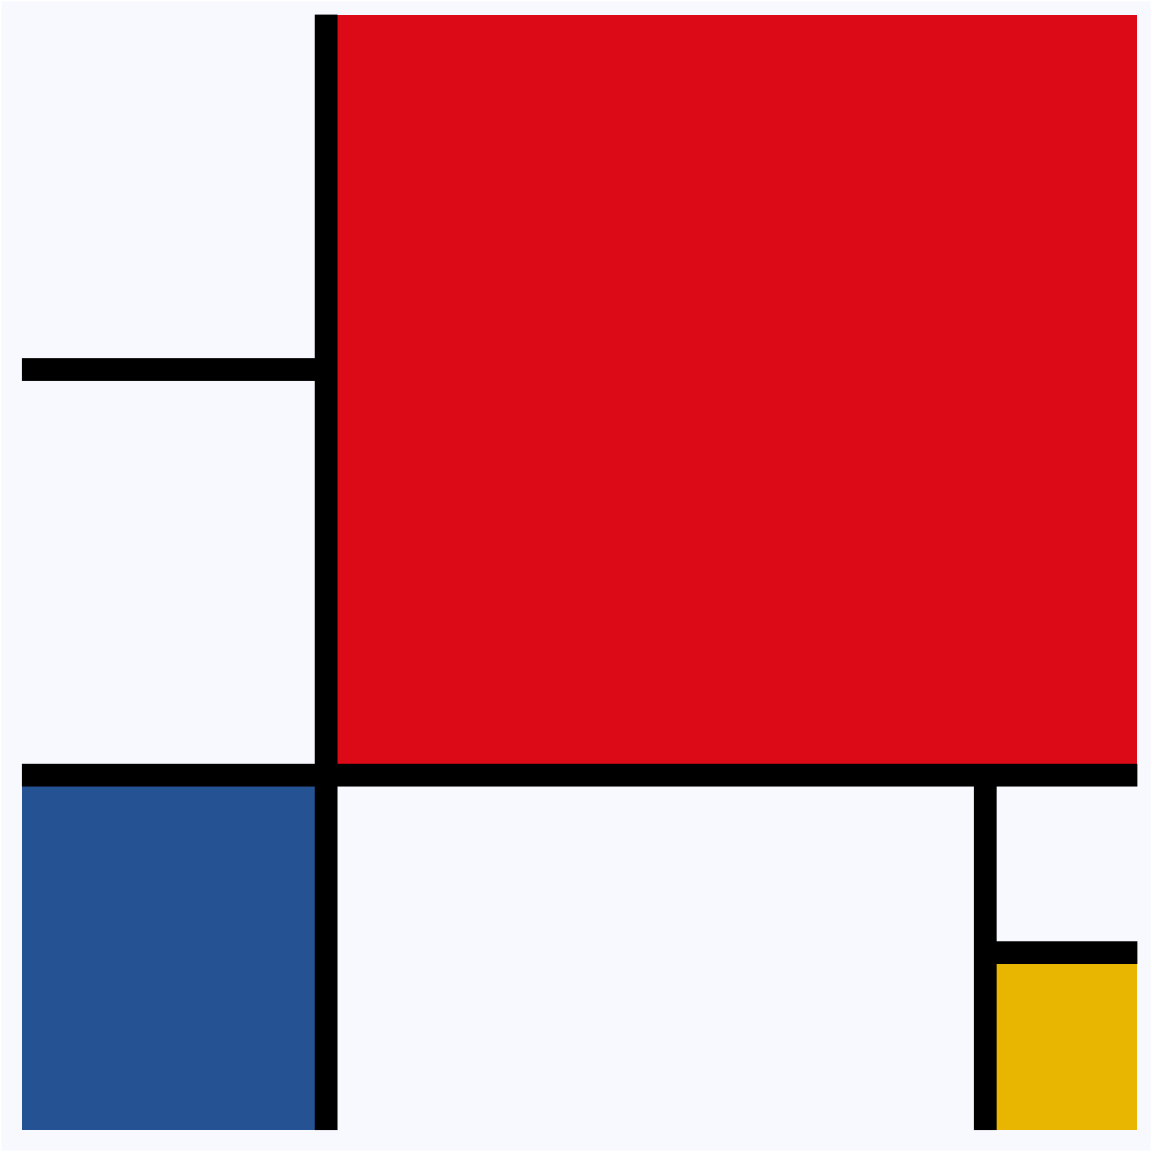
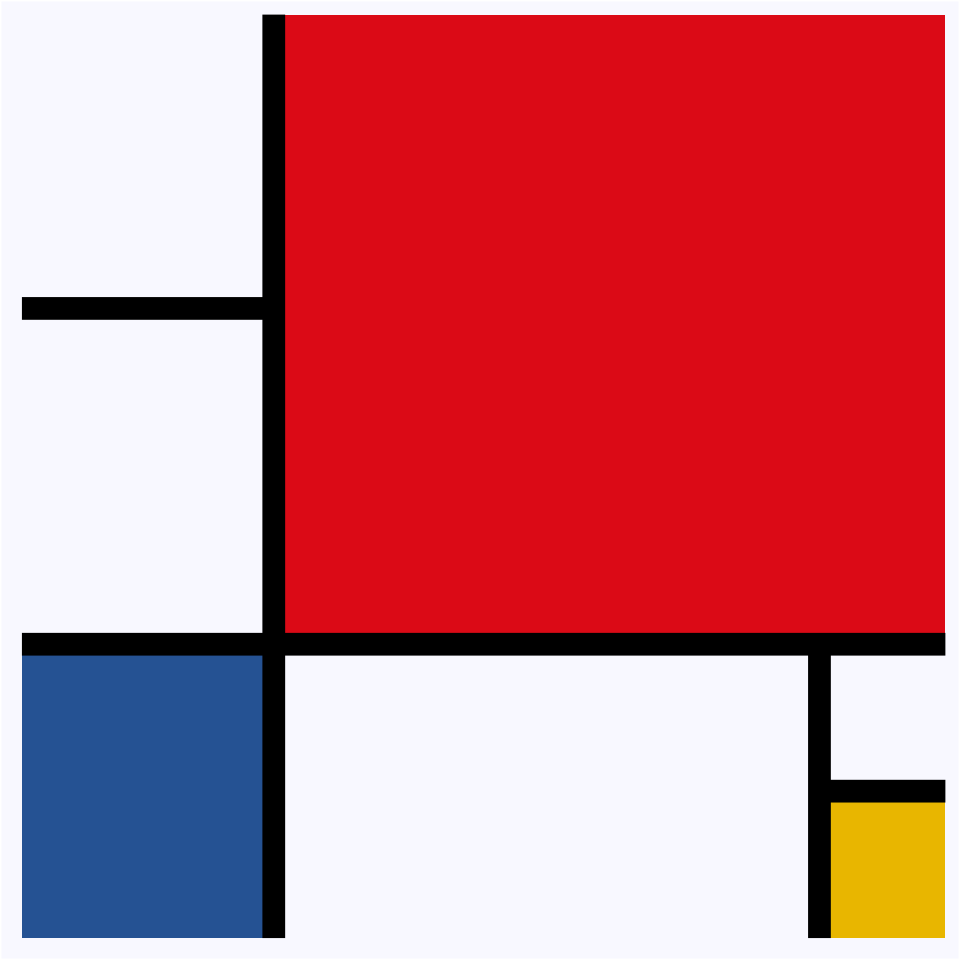
made the images look better on the home page

diff --git a/dashboard/dashboard.html b/dashboard/dashboard.html
@@ -70,8 +70,8 @@ ul.task-list li input[type="checkbox"] {
 
 <div class="bslib-grid-item html-fill-item tab-content bslib-grid" data-layout="fill" style="display: grid; grid-template-rows: minmax(3em, 1fr); grid-auto-columns: minmax(0, 1fr);">
 <div id="home" class="dashboard-page tab-pane show active html-fill-item html-fill-container" data-orientation="rows" aria-labelledby="tab-home">
-<div class="html-fill-item html-fill-container bslib-grid" style="display: grid; grid-template-rows: minmax(3em, 1fr) minmax(3em, 1fr) minmax(3em, 1fr); grid-auto-columns: minmax(0, 1fr);">
-<div class="html-fill-item html-fill-container bslib-grid" data-width="25%" style="display: grid; grid-template-columns: minmax(3em, 1fr);
+<div class="html-fill-item html-fill-container bslib-grid" style="display: grid; grid-template-rows: minmax(3em, 1fr); grid-auto-columns: minmax(0, 1fr);">
+<div class="html-fill-item html-fill-container bslib-grid" data-width="50%" style="display: grid; grid-template-columns: minmax(3em, 1fr) minmax(3em, 1fr) minmax(3em, 1fr);
 grid-auto-rows: minmax(0, 1fr);">
 <div class="card cell html-fill-item html-fill-container bslib-card" data-title="Composition with Red, Blue, and Yellow" data-bslib-card-init="" data-require-bs-caller="card()" data-full-screen="false">
 <div class="card-header"><div class="card-title">Composition with Red, Blue, and Yellow</div></div>
@@ -85,11 +85,7 @@ grid-auto-rows: minmax(0, 1fr);">
     <span class="bslib-full-screen-enter badge rounded-pill">
         <svg xmlns="http://www.w3.org/2000/svg" viewbox="0 0 24 24" style="height:1em;width:1em;" aria-hidden="true" role="img"><path d="M20 5C20 4.4 19.6 4 19 4H13C12.4 4 12 3.6 12 3C12 2.4 12.4 2 13 2H21C21.6 2 22 2.4 22 3V11C22 11.6 21.6 12 21 12C20.4 12 20 11.6 20 11V5ZM4 19C4 19.6 4.4 20 5 20H11C11.6 20 12 20.4 12 21C12 21.6 11.6 22 11 22H3C2.4 22 2 21.6 2 21V13C2 12.4 2.4 12 3 12C3.6 12 4 12.4 4 13V19Z"></path></svg>
     </span>
-</bslib-tooltip><script data-bslib-card-init="">bslib.Card.initializeAllCards();</script></div>
-</div>
-<div class="html-fill-item html-fill-container bslib-grid" data-width="25%" style="display: grid; grid-template-columns: minmax(3em, 1fr);
-grid-auto-rows: minmax(0, 1fr);">
-<div class="card cell html-fill-item html-fill-container bslib-card" data-title="Composition No.10" data-bslib-card-init="" data-require-bs-caller="card()" data-full-screen="false">
+</bslib-tooltip><script data-bslib-card-init="">bslib.Card.initializeAllCards();</script></div><div class="card cell html-fill-item html-fill-container bslib-card" data-title="Composition No.10" data-bslib-card-init="" data-require-bs-caller="card()" data-full-screen="false">
 <div class="card-header"><div class="card-title">Composition No.10</div></div>
 <div class="card-body html-fill-item html-fill-container">
 <div class="cell-output-display html-fill-item html-fill-container">
@@ -101,11 +97,7 @@ grid-auto-rows: minmax(0, 1fr);">
     <span class="bslib-full-screen-enter badge rounded-pill">
         <svg xmlns="http://www.w3.org/2000/svg" viewbox="0 0 24 24" style="height:1em;width:1em;" aria-hidden="true" role="img"><path d="M20 5C20 4.4 19.6 4 19 4H13C12.4 4 12 3.6 12 3C12 2.4 12.4 2 13 2H21C21.6 2 22 2.4 22 3V11C22 11.6 21.6 12 21 12C20.4 12 20 11.6 20 11V5ZM4 19C4 19.6 4.4 20 5 20H11C11.6 20 12 20.4 12 21C12 21.6 11.6 22 11 22H3C2.4 22 2 21.6 2 21V13C2 12.4 2.4 12 3 12C3.6 12 4 12.4 4 13V19Z"></path></svg>
     </span>
-</bslib-tooltip><script data-bslib-card-init="">bslib.Card.initializeAllCards();</script></div>
-</div>
-<div class="html-fill-item html-fill-container bslib-grid" data-width="25%" style="display: grid; grid-template-columns: minmax(3em, 1fr);
-grid-auto-rows: minmax(0, 1fr);">
-<div class="card cell html-fill-item html-fill-container bslib-card" data-title="Composition with Yellow, Blue, and Red" data-bslib-card-init="" data-require-bs-caller="card()" data-full-screen="false">
+</bslib-tooltip><script data-bslib-card-init="">bslib.Card.initializeAllCards();</script></div><div class="card cell html-fill-item html-fill-container bslib-card" data-title="Composition with Yellow, Blue, and Red" data-bslib-card-init="" data-require-bs-caller="card()" data-full-screen="false">
 <div class="card-header"><div class="card-title">Composition with Yellow, Blue, and Red</div></div>
 <div class="card-body html-fill-item html-fill-container">
 <div class="cell-output-display html-fill-item html-fill-container">
